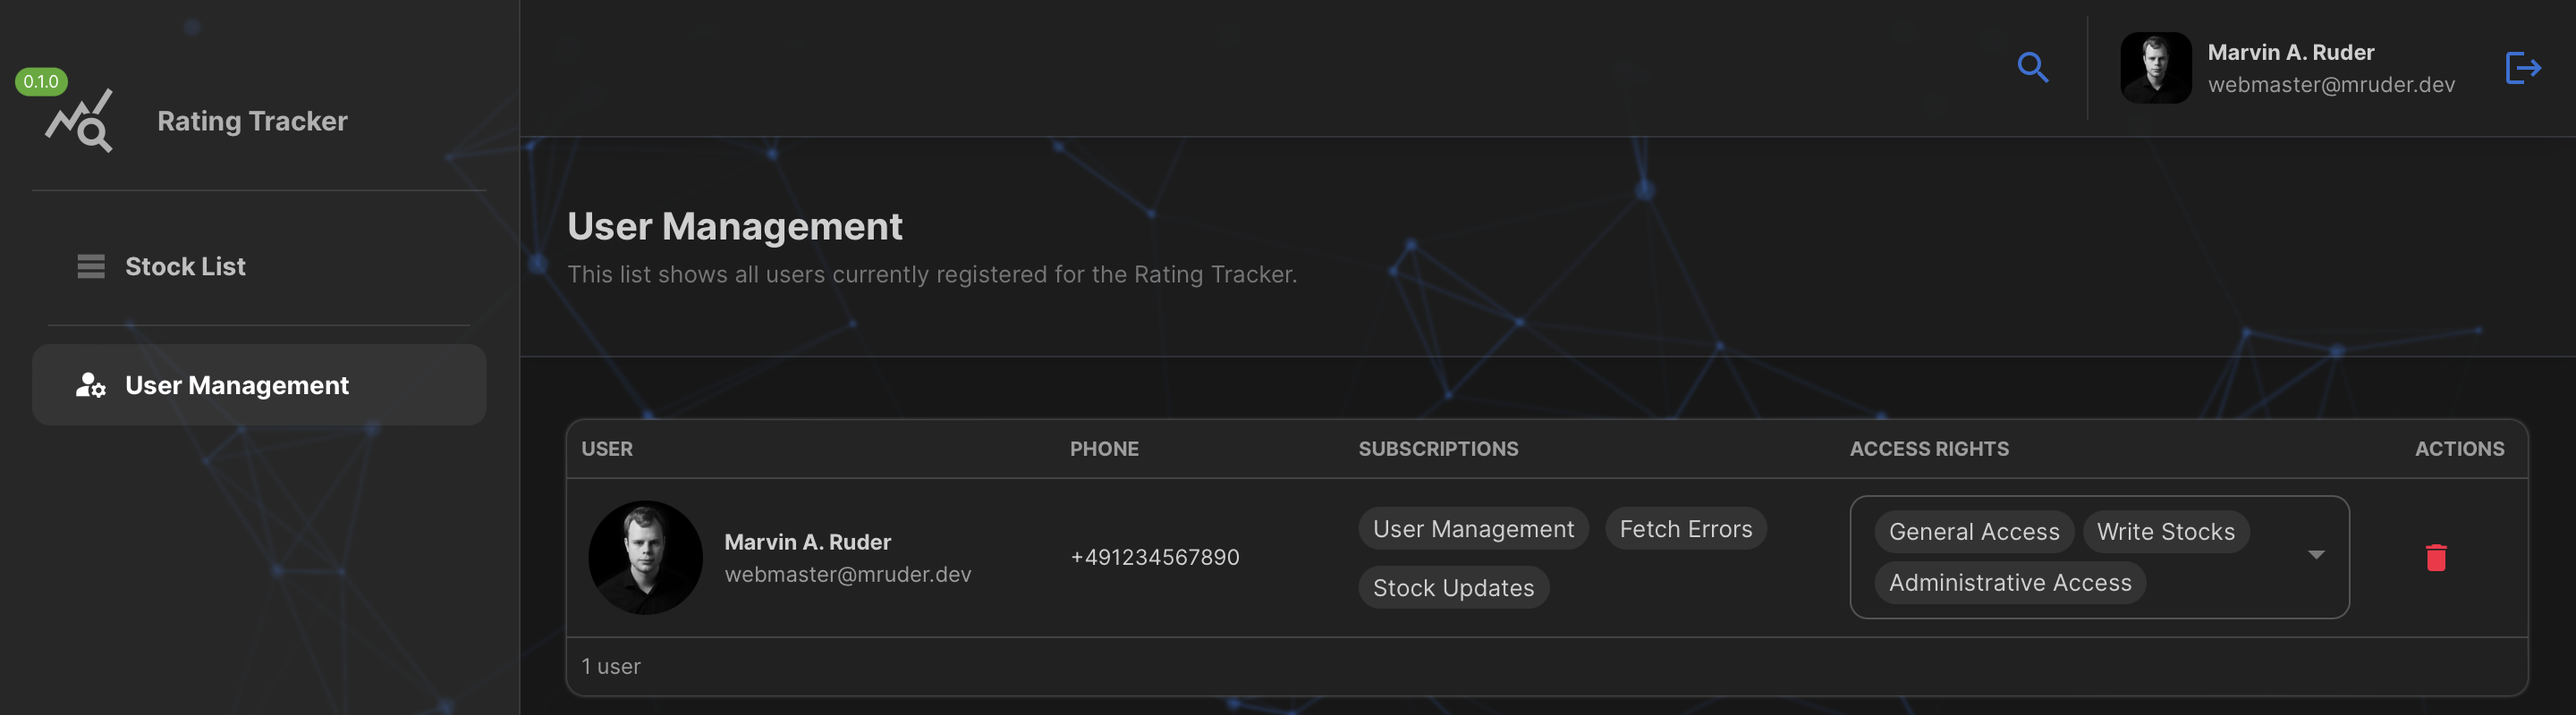
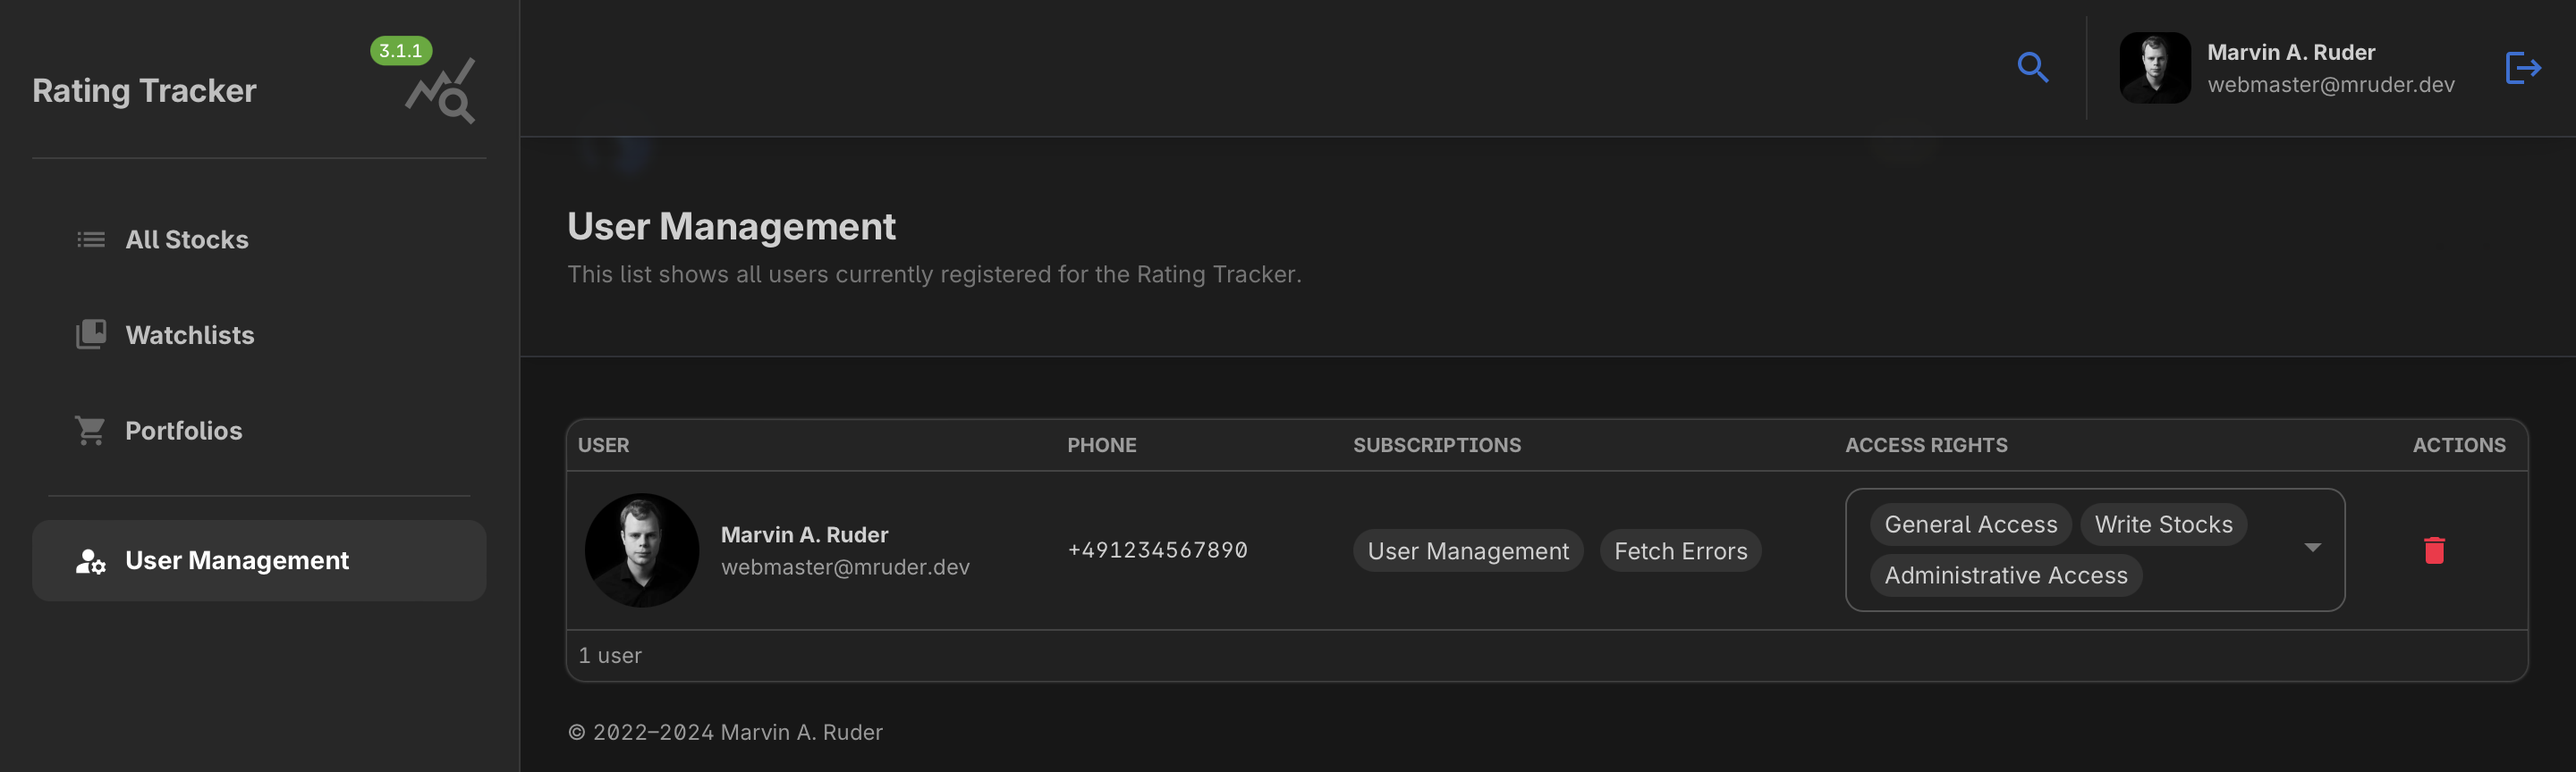
Add portfolios to README.md
* Update documentation images

diff --git a/README.md b/README.md
@@ -62,6 +62,16 @@ Users can subscribe to a watchlist, so they receive [notifications](#notificatio
   <img alt="Rating Tracker Watchlists" src="/docs/images/watchlists-light.png">
 </picture>
 
+#### Portfolios
+
+Stocks weighted by a given amount of currency can be aggretated in portfolios. The average rating scores of the portfolio can be displayed, as well as the distribution of regions, industry sectors, company sizes and styles of the stocks in the portfolio.
+
+<picture>
+  <source media="(prefers-color-scheme: dark)" srcset="/docs/images/portfolios-dark.png">
+  <source media="(prefers-color-scheme: light)" srcset="/docs/images/portfolios-light.png">
+  <img alt="Rating Tracker Portfolios" src="/docs/images/portfolios-light.png">
+</picture>
+
 #### User Management
 
 The Rating Tracker supports multiple users, who can self-register via WebAuthn and access the application after being granted fine-grained access by an administrator, for whom a “User Management” web interface is provided.
